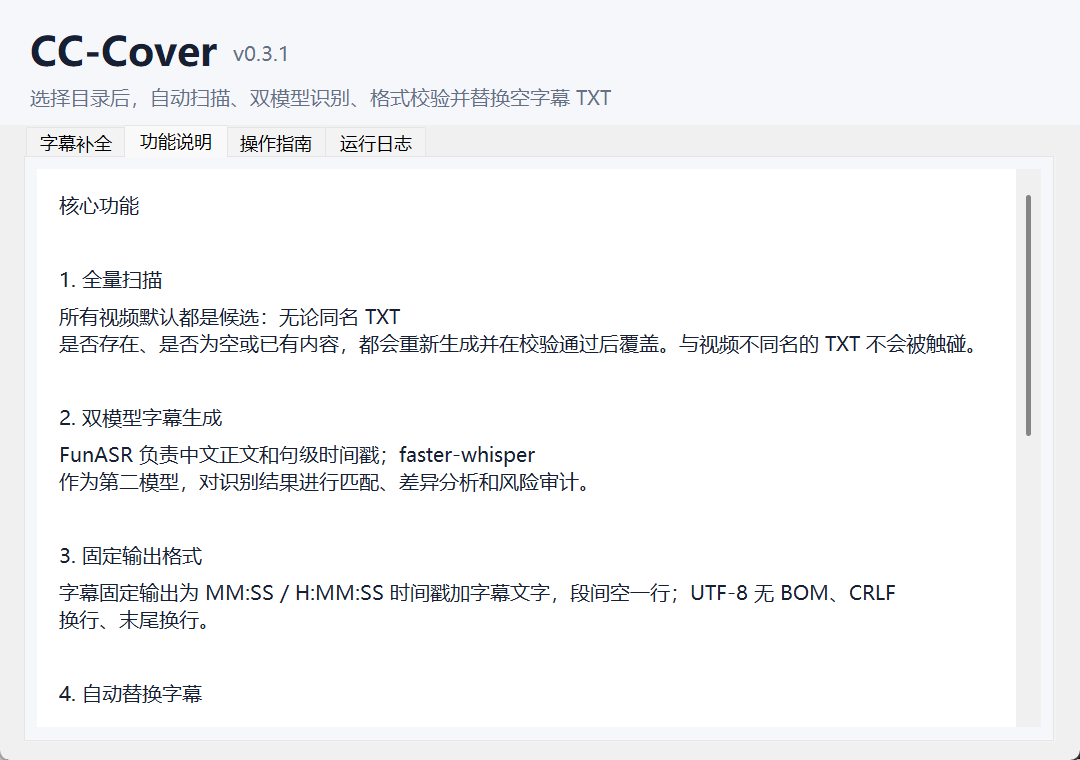
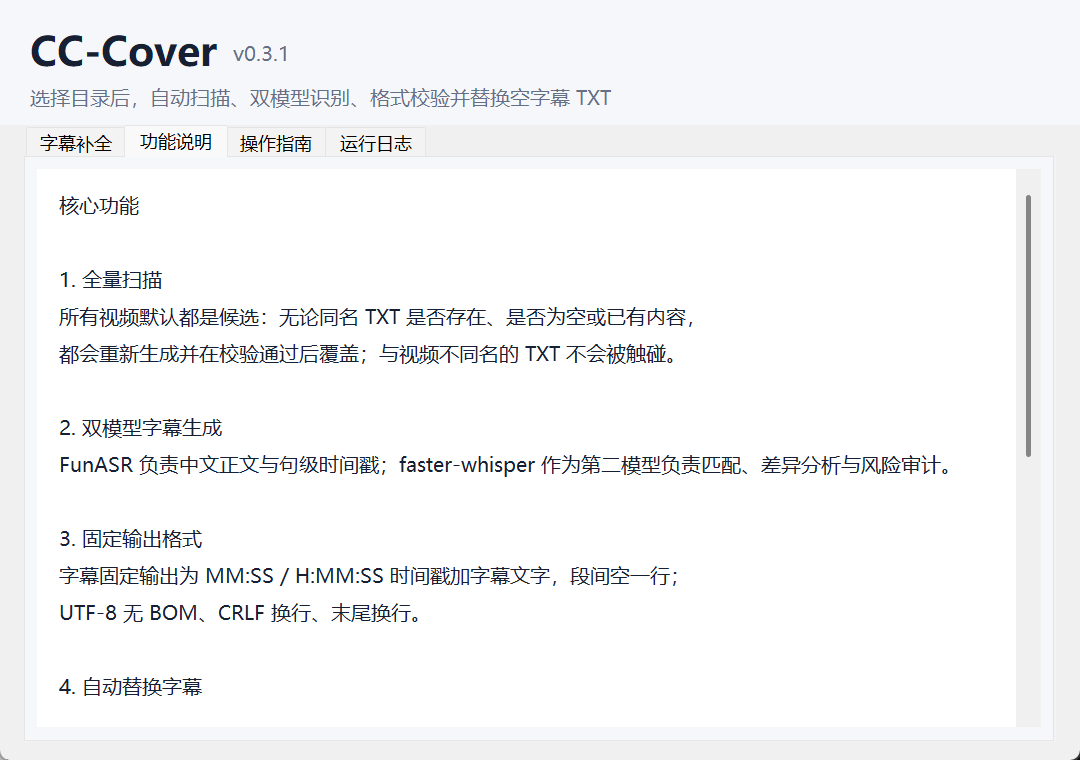
fix: 功能说明/操作指南文字断行优化，消除换行留白 (#35) (#58)
* fix: 功能说明/操作指南文字按窗口宽度手动断行，消除换行留白 (#35)

- 根因：ScrolledText wrap=word 按空格断行；DPI-aware 渲染（约 47 字/行）下多条段落尾行过短（400-800px 留白）
- 将两段说明重写为每行 ≤918px（约 46 字，覆盖 DPI-aware 与非 DPI 渲染、默认及最小窗口宽度），保留全部信息
- 验证：DPI-aware 与非 DPI 两种渲染下 1080/1200/920 宽度均 0 逻辑行换行；281 测试通过
- 重新生成三张界面截图

* fix: 采纳 code-review：恢复校验通过后/质量与格式校验/缓存占用表述 (#35)

- 全量扫描恢复「校验通过后覆盖」安全语义（拆两行，TXT 与是否存在同行）
- 自动替换恢复「质量与格式校验」
- 模型缓存恢复「显示缓存占用」
- 运行设备措辞与首次使用步骤统一（默认 NVIDIA GPU，否则 CPU）
- 重新生成截图；全量 281 测试通过

---------

diff --git a/src/cc_cover/gui.py b/src/cc_cover/gui.py
@@ -103,25 +103,27 @@ class TaskCancelled(RuntimeError):
 FEATURE_TEXT = """核心功能
 
 1. 全量扫描
-所有视频默认都是候选：无论同名 TXT 是否存在、是否为空或已有内容，都会重新生成并在校验通过后覆盖。与视频不同名的 TXT 不会被触碰。
+所有视频默认都是候选：无论同名 TXT 是否存在、是否为空或已有内容，
+都会重新生成并在校验通过后覆盖；与视频不同名的 TXT 不会被触碰。
 
 2. 双模型字幕生成
-FunASR 负责中文正文和句级时间戳；faster-whisper 作为第二模型，对识别结果进行匹配、差异分析和风险审计。
+FunASR 负责中文正文与句级时间戳；faster-whisper 作为第二模型负责匹配、差异分析与风险审计。
 
 3. 固定输出格式
-字幕固定输出为 MM:SS / H:MM:SS 时间戳加字幕文字，段间空一行；UTF-8 无 BOM、CRLF 换行、末尾换行。
+字幕固定输出为 MM:SS / H:MM:SS 时间戳加字幕文字，段间空一行；
+UTF-8 无 BOM、CRLF 换行、末尾换行。
 
 4. 自动替换字幕
-用户点击“开始补全并替换”后，软件完成扫描、识别、质量校验和格式校验，并直接原子替换目标 TXT，无需额外写回参数。
+点击“开始补全并替换”后，完成扫描、识别、质量与格式校验并原子替换目标 TXT，无需额外写回参数。
 
 5. 冲突检测
-发现阶段检测同 stem 多视频指向同一目标 TXT 的冲突，标记“冲突”，默认不处理、不写回，报告会列出所有相关视频。
+发现阶段检测同 stem 多视频指向同一目标 TXT 的冲突，标记“冲突”并默认排除，报告列出相关视频。
 
 6. 写回保护
 处理前记录视频和字幕快照；写回前复核文件状态；写回时先保存备份；批量写回失败会自动回滚。
 
 7. 可恢复运行
-模型结果、审计报告、待写字幕、备份和复核报告都会保存在运行目录。中断后可通过“继续中断任务”选择运行目录继续。
+模型结果、审计报告、待写字幕、备份与复核报告都保存在运行目录，可点击“继续中断任务”恢复。
 
 8. 本地处理
 视频、音频和字幕均在本机处理。只有首次安装依赖或首次下载模型时需要联网。"""
@@ -131,13 +133,16 @@ GUIDE_TEXT = """操作指南
 
 首次使用
 
-1. 打开 CC-Cover.exe；若程序所在目录不可写（例如安装到 Program Files），软件会先引导选择数据目录。
-2. 软件会自动检测运行设备（有可用 GPU 默认 NVIDIA GPU，否则 CPU），也可在“运行环境”区域手动切换。
-3. 点击“安装 / 修复运行环境”。软件会先检查目标盘剩余空间（按所选设备与默认模型估算），不足时提示所需与剩余并建议先清理运行目录；安装期间显示当前组件、已下载大小与按速度粗估的剩余时间。
+1. 打开 CC-Cover.exe；若程序所在目录不可写（如安装到 Program Files），会先引导选择数据目录。
+2. 软件会自动检测运行设备（默认 NVIDIA GPU，否则 CPU），可在“运行环境”区域手动切换。
+3. 点击“安装 / 修复运行环境”。软件会先检查目标盘剩余空间（按所选设备与默认模型估算），
+不足时提示所需与剩余并建议先清理运行目录；
+安装期间显示当前组件、已下载大小与按速度粗估的剩余时间。
 4. 等待状态显示“运行环境已就绪”。首次安装耗时取决于网络速度。
-5. 切换运行设备后，软件会自动重新检查环境；如果当前环境不匹配所选设备，会提示重新安装 / 修复运行环境。
+5. 切换运行设备后会自动复检环境；如果当前环境不匹配所选设备，会提示重新安装 / 修复运行环境。
 
-同一数据目录只允许一个实例运行；若软件已在运行，再次启动会提示“CC-Cover 已在运行”并退出，同时尝试切换到已打开的窗口。
+同一数据目录只允许一个实例运行；若软件已在运行，再次启动会提示
+“CC-Cover 已在运行”并退出，同时尝试切换到已打开的窗口。
 
 补全字幕
 
@@ -145,24 +150,31 @@ GUIDE_TEXT = """操作指南
 2. 选择目录后会自动进行快速扫描，也可以点击“重新扫描”。
 3. 在候选列表中确认待补全字幕；冲突项会标记“冲突”，默认不会处理。
 4. 根据需要调整运行设备、视频哈希保护与 FFmpeg 路径。
-5. 点击“开始补全并替换”。软件会先弹出确认框（将处理 N 个视频并替换同名 TXT，含已排除数量，替换前自动备份）；确认后自动完成双模型识别、审计、格式化、备份、替换和最终复核。
-6. 运行期间进度条显示「第 N / 共 M 个」、百分比、已用时长与粗估剩余时间；在“运行日志”页可查看逐文件明细。完成后弹窗显示总耗时、写回数量与告警数量（可点击查看 summary.txt），并可打开本次运行目录；每次运行都会在运行目录生成 summary.txt 摘要。
+5. 点击“开始补全并替换”。软件会先弹出确认框（将处理 N 个视频并替换同名 TXT，含已排除数量，
+替换前自动备份）；确认后自动完成双模型识别、审计、格式化、备份、替换和最终复核。
+6. 进度条显示「第 N / 共 M 个」、百分比、已用时长与粗估剩余时间；在“运行日志”页查看明细。
+7. 完成后弹窗显示总耗时、写回数量与告警数量（点击查看 summary.txt），并可打开本次运行目录；
+每次运行都会在运行目录生成 summary.txt 摘要。
 
 中断恢复
 
 1. 运行期间可随时点击“停止当前任务”（扫描、环境检查、转写、写回均支持）。
 2. 主动停止不会弹出错误框，而是提示“任务已停止，产物已暂存，可点击‘继续中断任务’恢复”。
-3. 失败或停止后可直接点击“继续中断任务”恢复，软件会复用已完成的模型结果，并在校验通过后继续写回。
-4. 也可以点击“打开运行目录”查看运行产物与日志；“运行目录清理”入口可查看所有运行记录（时间/状态/大小）并按需删除，总占用超过 5GB 时会提示建议清理。
+3. 失败或停止后可点击“继续中断任务”恢复，软件复用已完成的模型结果，并在校验通过后继续写回。
+4. 也可以点击“打开运行目录”查看运行产物与日志；
+“运行目录清理”入口可查看运行记录（时间/状态/大小）并按需删除，总占用超 5GB 时提示建议清理。
 
 选项说明
 
-• 运行设备：启动时自动检测默认值（有可用 GPU 默认 NVIDIA GPU，否则 CPU）；切换后自动复检环境。CLI 仍支持 --device auto/cuda/cpu。
+• 运行设备：自动检测（默认 NVIDIA GPU，否则 CPU），可在“运行环境”区域切换。
+CLI 仍支持 --device auto/cuda/cpu。
 • 视频哈希保护：处理前计算视频 SHA-256，安全性更高，但首次扫描大型目录会更慢。
 • FFmpeg：通常无需指定；只有自动检测失败时才选择 ffmpeg.exe。
-• 数据目录：默认使用程序所在目录（便携模式），保存运行环境、模型缓存、运行记录与设置文件；可在“运行环境”区域点击“更改…”切换，切换后需重新安装运行环境，模型缓存可手动复制。
-• 模型缓存：“运行环境”区域显示缓存占用，可“打开缓存位置”或“清理模型缓存”（清理前需确认，清理后下次运行需重新下载模型）。
-• 清理全部本地数据：删除运行环境、模型缓存、运行记录与临时文件，删除前需确认并显示总占用；删除后需重新安装运行环境并重新下载模型。
+• 数据目录：默认使用程序所在目录（便携模式），保存运行环境、模型缓存、运行记录与设置文件；
+可在“运行环境”区域点击“更改…”切换，切换后需重新安装运行环境，模型缓存可手动复制。
+• 模型缓存：“运行环境”显示缓存占用，可“打开缓存位置”或“清理模型缓存”（清理后需重新下载）。
+• 清理全部本地数据：删除运行环境、模型缓存、运行记录与临时文件，删除前确认并显示总占用，
+删除后需重新安装运行环境并重新下载模型。
 
 注意事项
 

diff --git a/CHANGELOG.md b/CHANGELOG.md
@@ -26,6 +26,7 @@
 ### 变更
 
 - 性能：视频全量读取次数由每项约 9 次降到 2 次，以大小 + 修改时间快速校验辅助（#20）。
+- 界面排版：功能说明 / 操作指南文字按窗口宽度手动断行，消除默认窗口下自动换行导致的尾部留白（#35 跟进）。
 
 ### 修复
 
